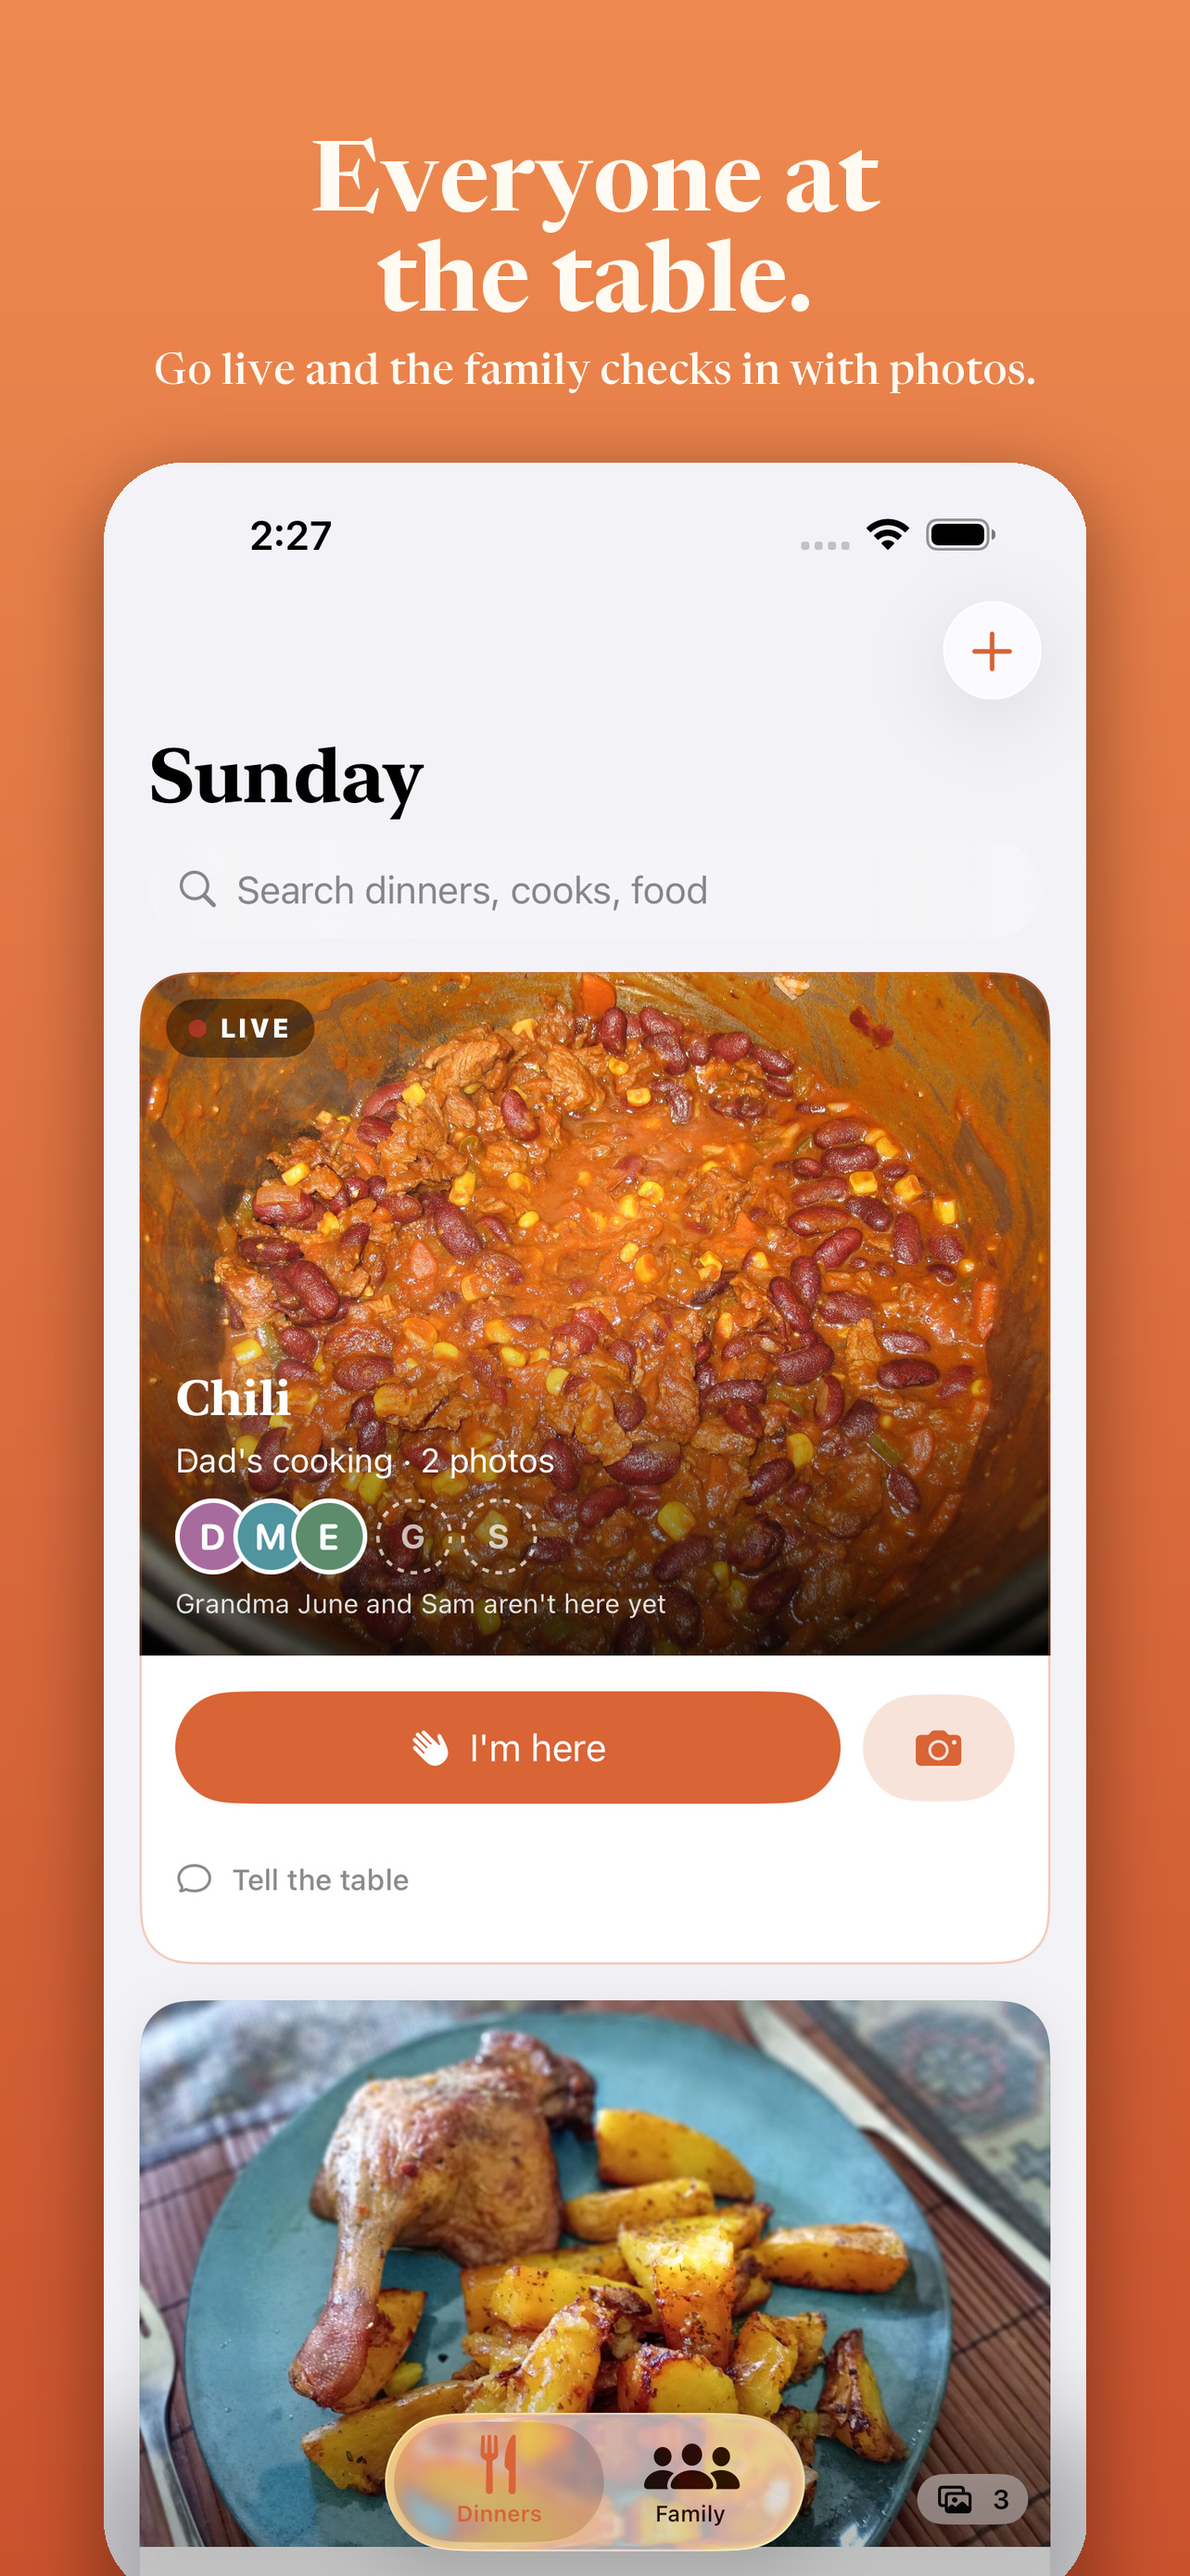
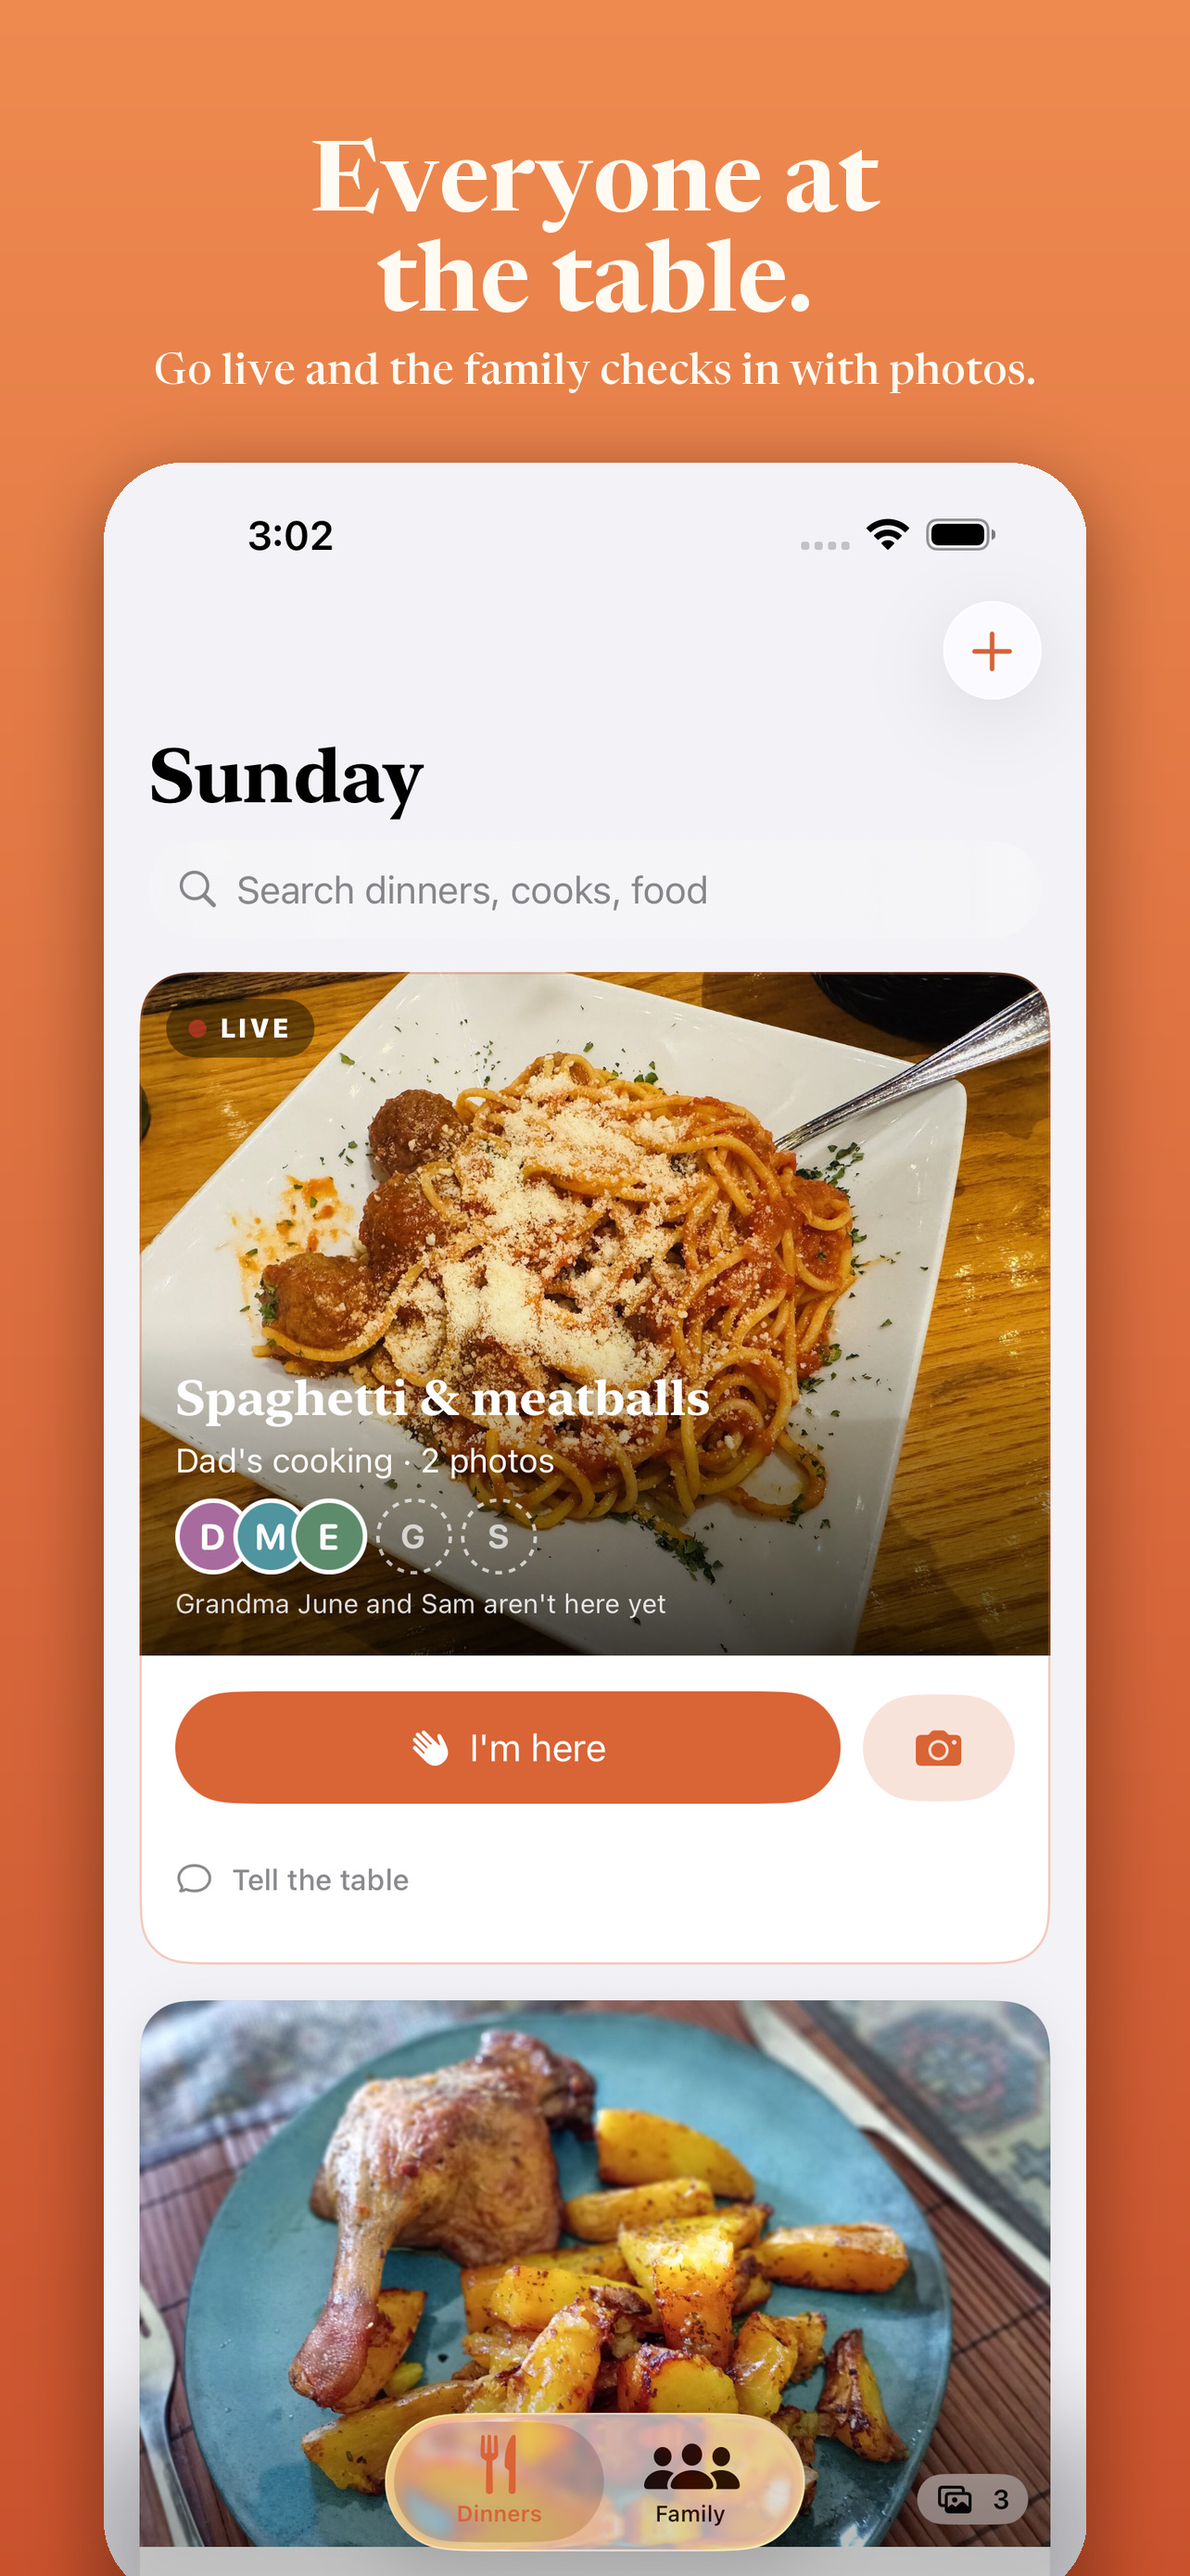
Sample dinners: spaghetti and meatballs instead of chili
The chili photos didn't look good in the App Store screenshots. The
sample dish, its photo and the screenshots are redone.

Changed region(s): [[0.0935, 0.3715, 0.9034, 0.6501], [0.2181, 0.1857, 0.2804, 0.2167]]

diff --git a/Sunday/Support/PreviewData.swift b/Sunday/Support/PreviewData.swift
@@ -32,8 +32,8 @@ enum PreviewData {
                symbol: "frying.pan.fill", colors: (.brown, .systemOrange)),
         Dinner(name: "Tacos", weeksAgo: 14, stars: 4, notes: "",
                symbol: "takeoutbag.and.cup.and.straw.fill", colors: (.systemYellow, .systemGreen)),
-        Dinner(name: "Chili", weeksAgo: 52, stars: 5, notes: "Perfect for the first cold Sunday.",
-               symbol: "flame.fill", colors: (.systemRed, .brown)),
+        Dinner(name: "Spaghetti & meatballs", weeksAgo: 52, stars: 5, notes: "Perfect for the first cold Sunday.",
+               symbol: "fork.knife", colors: (.systemRed, .brown)),
         Dinner(name: "Lemon chicken & roasted potatoes", weeksAgo: 60, stars: 4, notes: "",
                symbol: "fork.knife", colors: (.systemOrange, .systemYellow),
                recipe: "1 whole chicken, 2 lemons, 2 lb small potatoes, garlic, thyme.\n\nPotatoes in first at 425°F for 15 minutes. Chicken on top with lemon halves and garlic, 55 more minutes. Squeeze the roasted lemon over everything."),
@@ -52,7 +52,7 @@ enum PreviewData {
         "Salmon with rice": ("salmon", "Salmon with rice and lemon on a plate."),
         "Pot roast": ("pot-roast", "Pot roast with green beans and mashed potatoes."),
         "Tacos": ("tacos", "Three tacos with meat, onion and cilantro."),
-        "Chili": ("chili", "A bowl of chili topped with shredded cheese."),
+        "Spaghetti & meatballs": ("spaghetti", "Spaghetti and meatballs with grated cheese."),
         "Thanksgiving turkey": ("turkey", "A roast turkey in the pan."),
         "Birthday lasagna": ("lasagna", "A slice of lasagna with melted cheese."),
     ]
@@ -112,13 +112,13 @@ enum PreviewData {
         try? context.save()
     }
 
-    /// Sunday Live in progress, for screenshots: Dad's chili, two photos so
+    /// Sunday Live in progress, for screenshots: Dad's spaghetti, two photos so
     /// far, and this phone (Grandma June's) not checked in yet.
     private static func addLiveDinner(_ context: NSManagedObjectContext) {
         let started = Date.now.addingTimeInterval(-25 * 60)
         let meal = Meal(context: context)
         meal.id = UUID()
-        meal.name = "Chili"
+        meal.name = "Spaghetti & meatballs"
         meal.date = started
         meal.createdAt = started
         meal.cook = "Dad"
@@ -132,8 +132,8 @@ enum PreviewData {
             photo.sortIndex = Int16(index)
             photo.by = index == 0 ? "Dad" : "Ellie"
             photo.createdAt = started.addingTimeInterval(Double(index) * 600)
-            photo.imageData = (samplePhoto(for: "Chili", index: index)
-                ?? illustration(symbol: "flame.fill", colors: (.systemRed, .brown), variant: index))
+            photo.imageData = (samplePhoto(for: "Spaghetti & meatballs", index: 0)
+                ?? illustration(symbol: "fork.knife", colors: (.systemRed, .brown), variant: index))
                 .jpegData(compressionQuality: 0.8)
             photo.thumbnailData = photo.imageData
             photo.meal = meal

diff --git a/SundayUITests/ScreenshotTests.swift b/SundayUITests/ScreenshotTests.swift
@@ -100,7 +100,7 @@ final class ScreenshotTests: XCTestCase {
         live.launchEnvironment["SUNDAY_SAMPLE_PHOTOS"] = photos
         live.launch()
         if live.otherElements["liveCard"].firstMatch.waitForExistence(timeout: 15)
-            || live.staticTexts["Chili"].firstMatch.waitForExistence(timeout: 3) {
+            || live.staticTexts["Spaghetti & meatballs"].firstMatch.waitForExistence(timeout: 3) {
             sleep(1)
             snap("9-live", variant)
         } else {

diff --git a/AppStore/SamplePhotos/SOURCES.md b/AppStore/SamplePhotos/SOURCES.md
@@ -13,7 +13,6 @@ Stand-in dinners for App Store screenshots (see `Screenshots.md`). Every photo i
 | `salmon-1.jpg` | Public domain | [Soldiers, civilians cook off in Baghdad 'Iron Chef' competition DVIDS246096.jpg](https://commons.wikimedia.org/wiki/File:Soldiers,_civilians_cook_off_in_Baghdad_%27Iron_Chef%27_competition_DVIDS246096.jpg) |
 | `pot-roast-1.jpg` | CC0 | [Pot roast, green beans, and mashed potatoes - Massachusetts.jpg](https://commons.wikimedia.org/wiki/File:Pot_roast,_green_beans,_and_mashed_potatoes_-_Massachusetts.jpg) |
 | `tacos-1.jpg` | Public domain | [Tacos on a plate.jpg](https://commons.wikimedia.org/wiki/File:Tacos_on_a_plate.jpg) |
-| `chili-1.jpg` | CC0 | [Chili con carne and cheddar cheese - Arlington, MA.jpg](https://commons.wikimedia.org/wiki/File:Chili_con_carne_and_cheddar_cheese_-_Arlington,_MA.jpg) |
-| `chili-2.jpg` | CC0 | [Chili con carne cuisson.jpg](https://commons.wikimedia.org/wiki/File:Chili_con_carne_cuisson.jpg) |
 | `turkey-1.jpg` | CC0 | [Roasted turkey.jpg](https://commons.wikimedia.org/wiki/File:Roasted_turkey.jpg) |
 | `lasagna-1.jpg` | CC0 | [Lasagna Serving.jpg](https://commons.wikimedia.org/wiki/File:Lasagna_Serving.jpg) |
+| `spaghetti-1.jpg` | CC0 | [Luna Trattoria - January 2025 - Sarah Stierch 04.jpg](https://commons.wikimedia.org/wiki/File:Luna_Trattoria_-_January_2025_-_Sarah_Stierch_04.jpg) |
